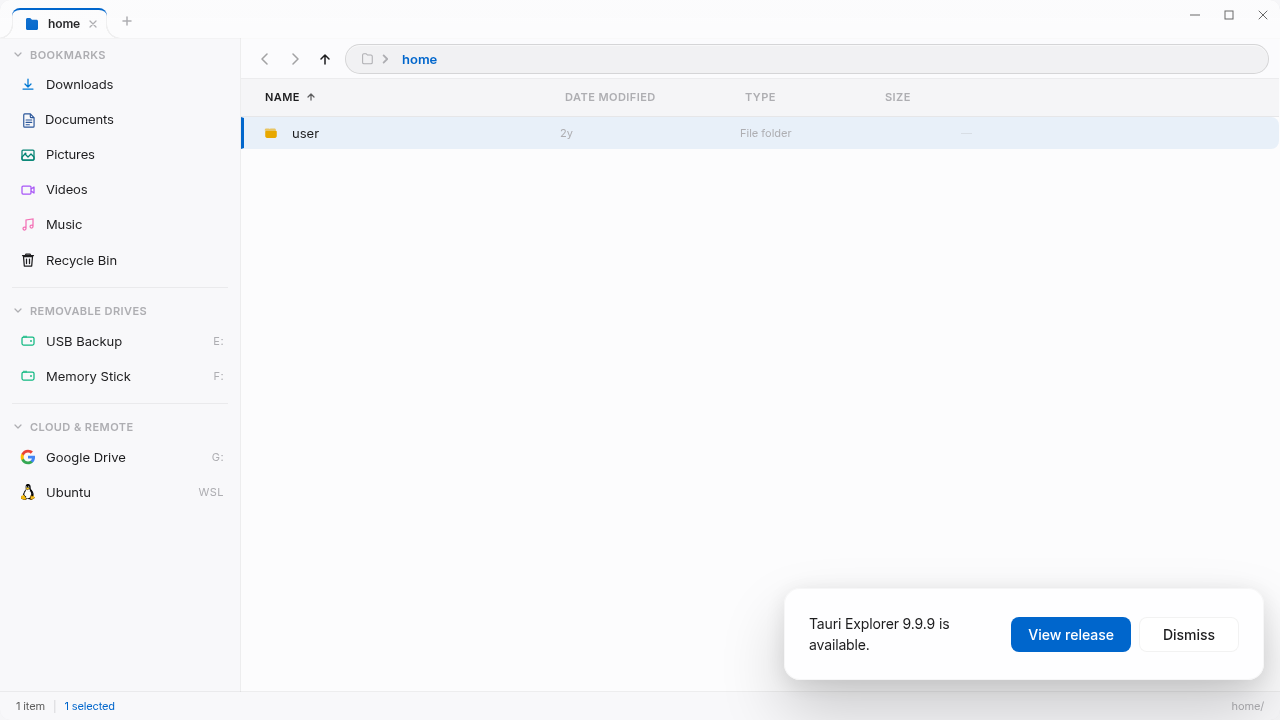
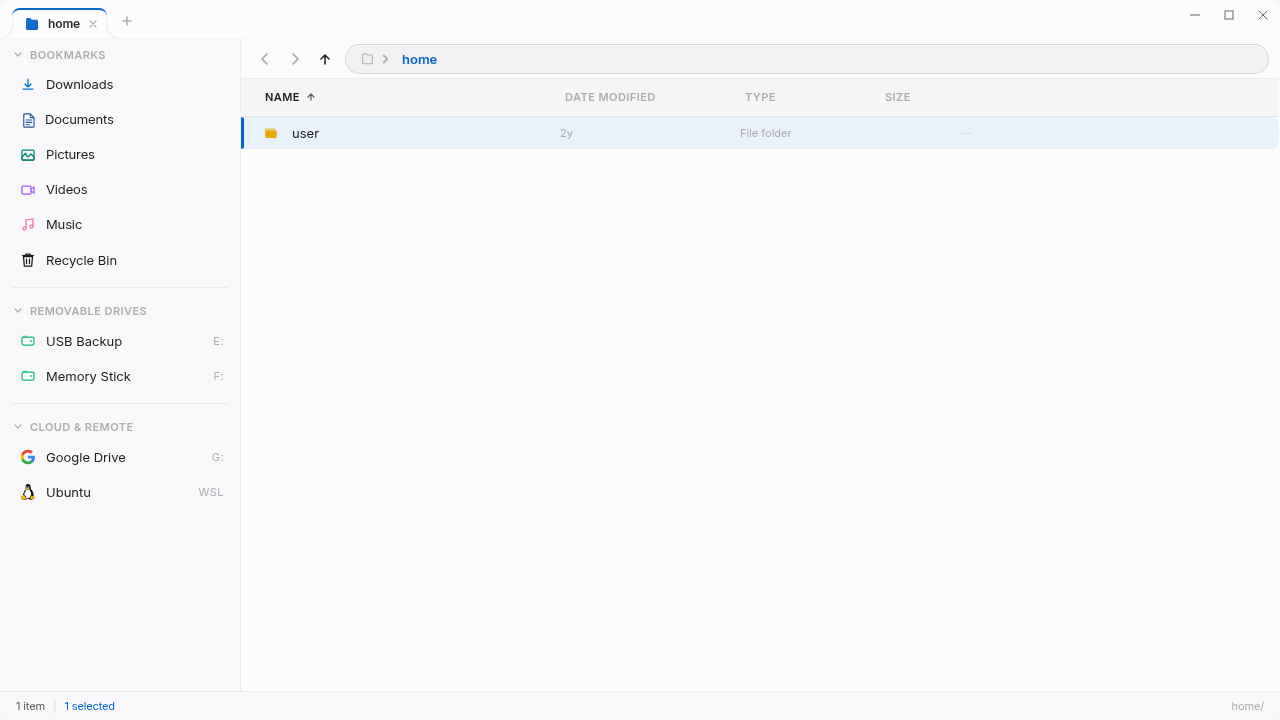
green: cover release action evidence

Changed region(s): [[0.5938, 0.9167, 1.0, 1.0], [0.7812, 0.8556, 0.9375, 0.9167], [0.625, 0.8556, 0.75, 0.9167]]

diff --git a/e2e/update-notice.spec.ts b/e2e/update-notice.spec.ts
@@ -14,10 +14,23 @@ test("update notice appears when a newer release exists", async ({ page }) => {
   await expect(notice).toBeVisible({ timeout: 15_000 });
   await expect(notice).toContainText("9.9.9 is available");
   await page.screenshot({ path: "evidence/ac-2-dialog-controls.png" });
-  await page.screenshot({ path: "evidence/ac-3-update-actions.png" });
 
   await notice.getByRole("button", { name: "Dismiss" }).click();
   await expect(notice).not.toBeVisible();
+});
+
+test("View release opens the update URL and dismisses the notice", async ({ page }) => {
+  await page.addInitScript(() => localStorage.setItem("mockUpdateAvailable", "1"));
+  await page.goto("/");
+
+  const notice = page.locator('[data-testid="update-notice"]');
+  await expect(notice).toBeVisible({ timeout: 15_000 });
+  await notice.getByRole("button", { name: "View release" }).click();
+  await expect(notice).not.toBeVisible();
+  await expect.poll(() => page.evaluate(() => localStorage.getItem("mock-opened-url"))).toBe(
+    "https://github.com/xnmp/tauri-explorer/releases/tag/v9.9.9",
+  );
+  await page.screenshot({ path: "evidence/ac-3-update-actions.png" });
 });
 
 test("update notice uses themed shared dialog controls", async ({ page }) => {
